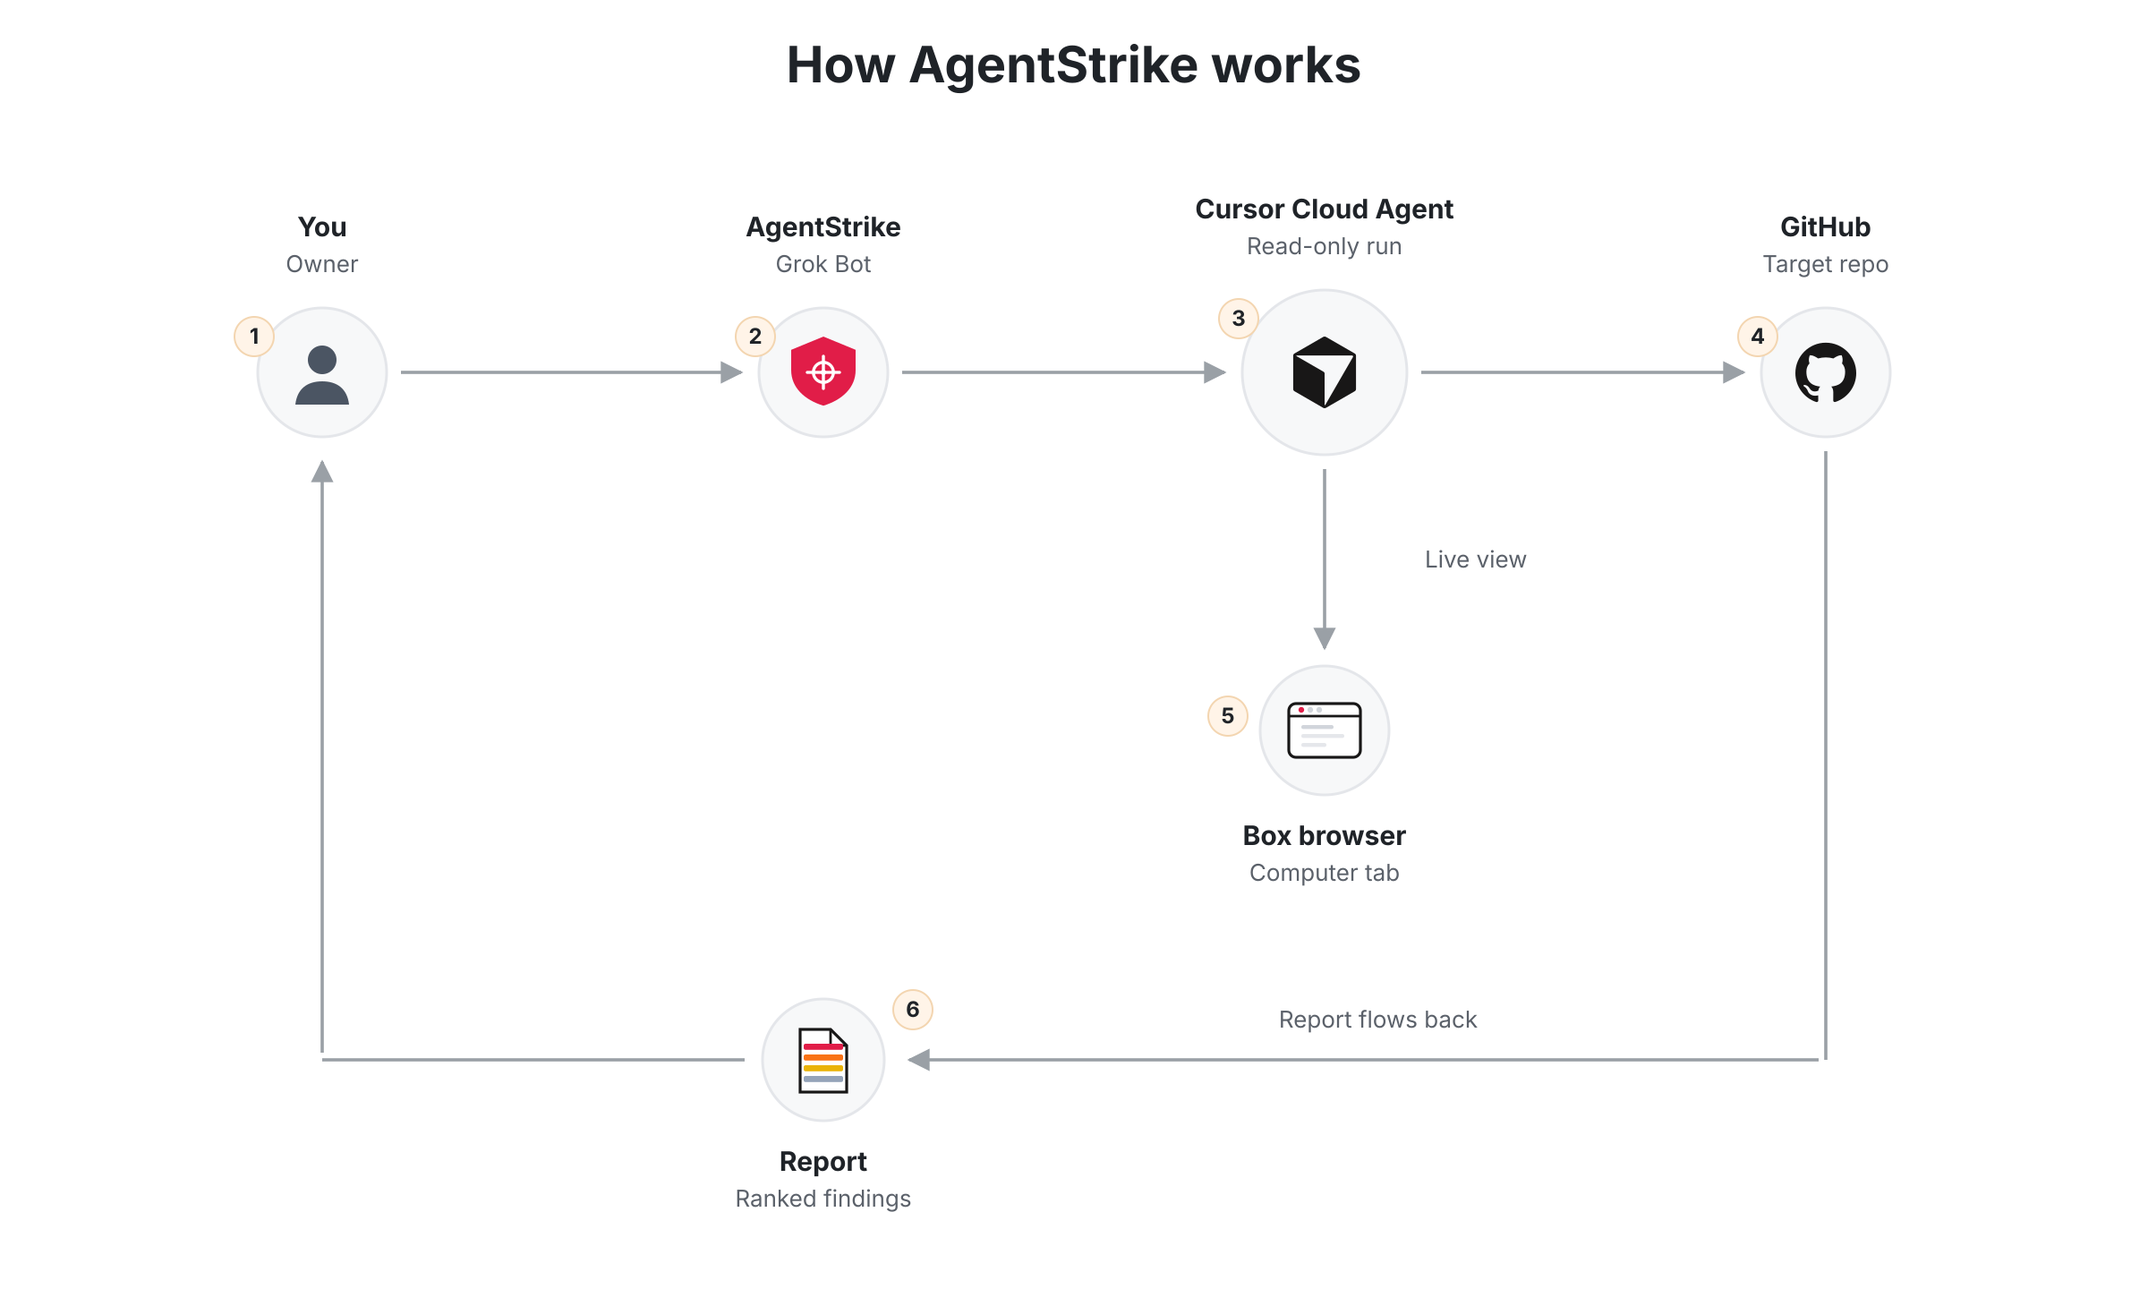
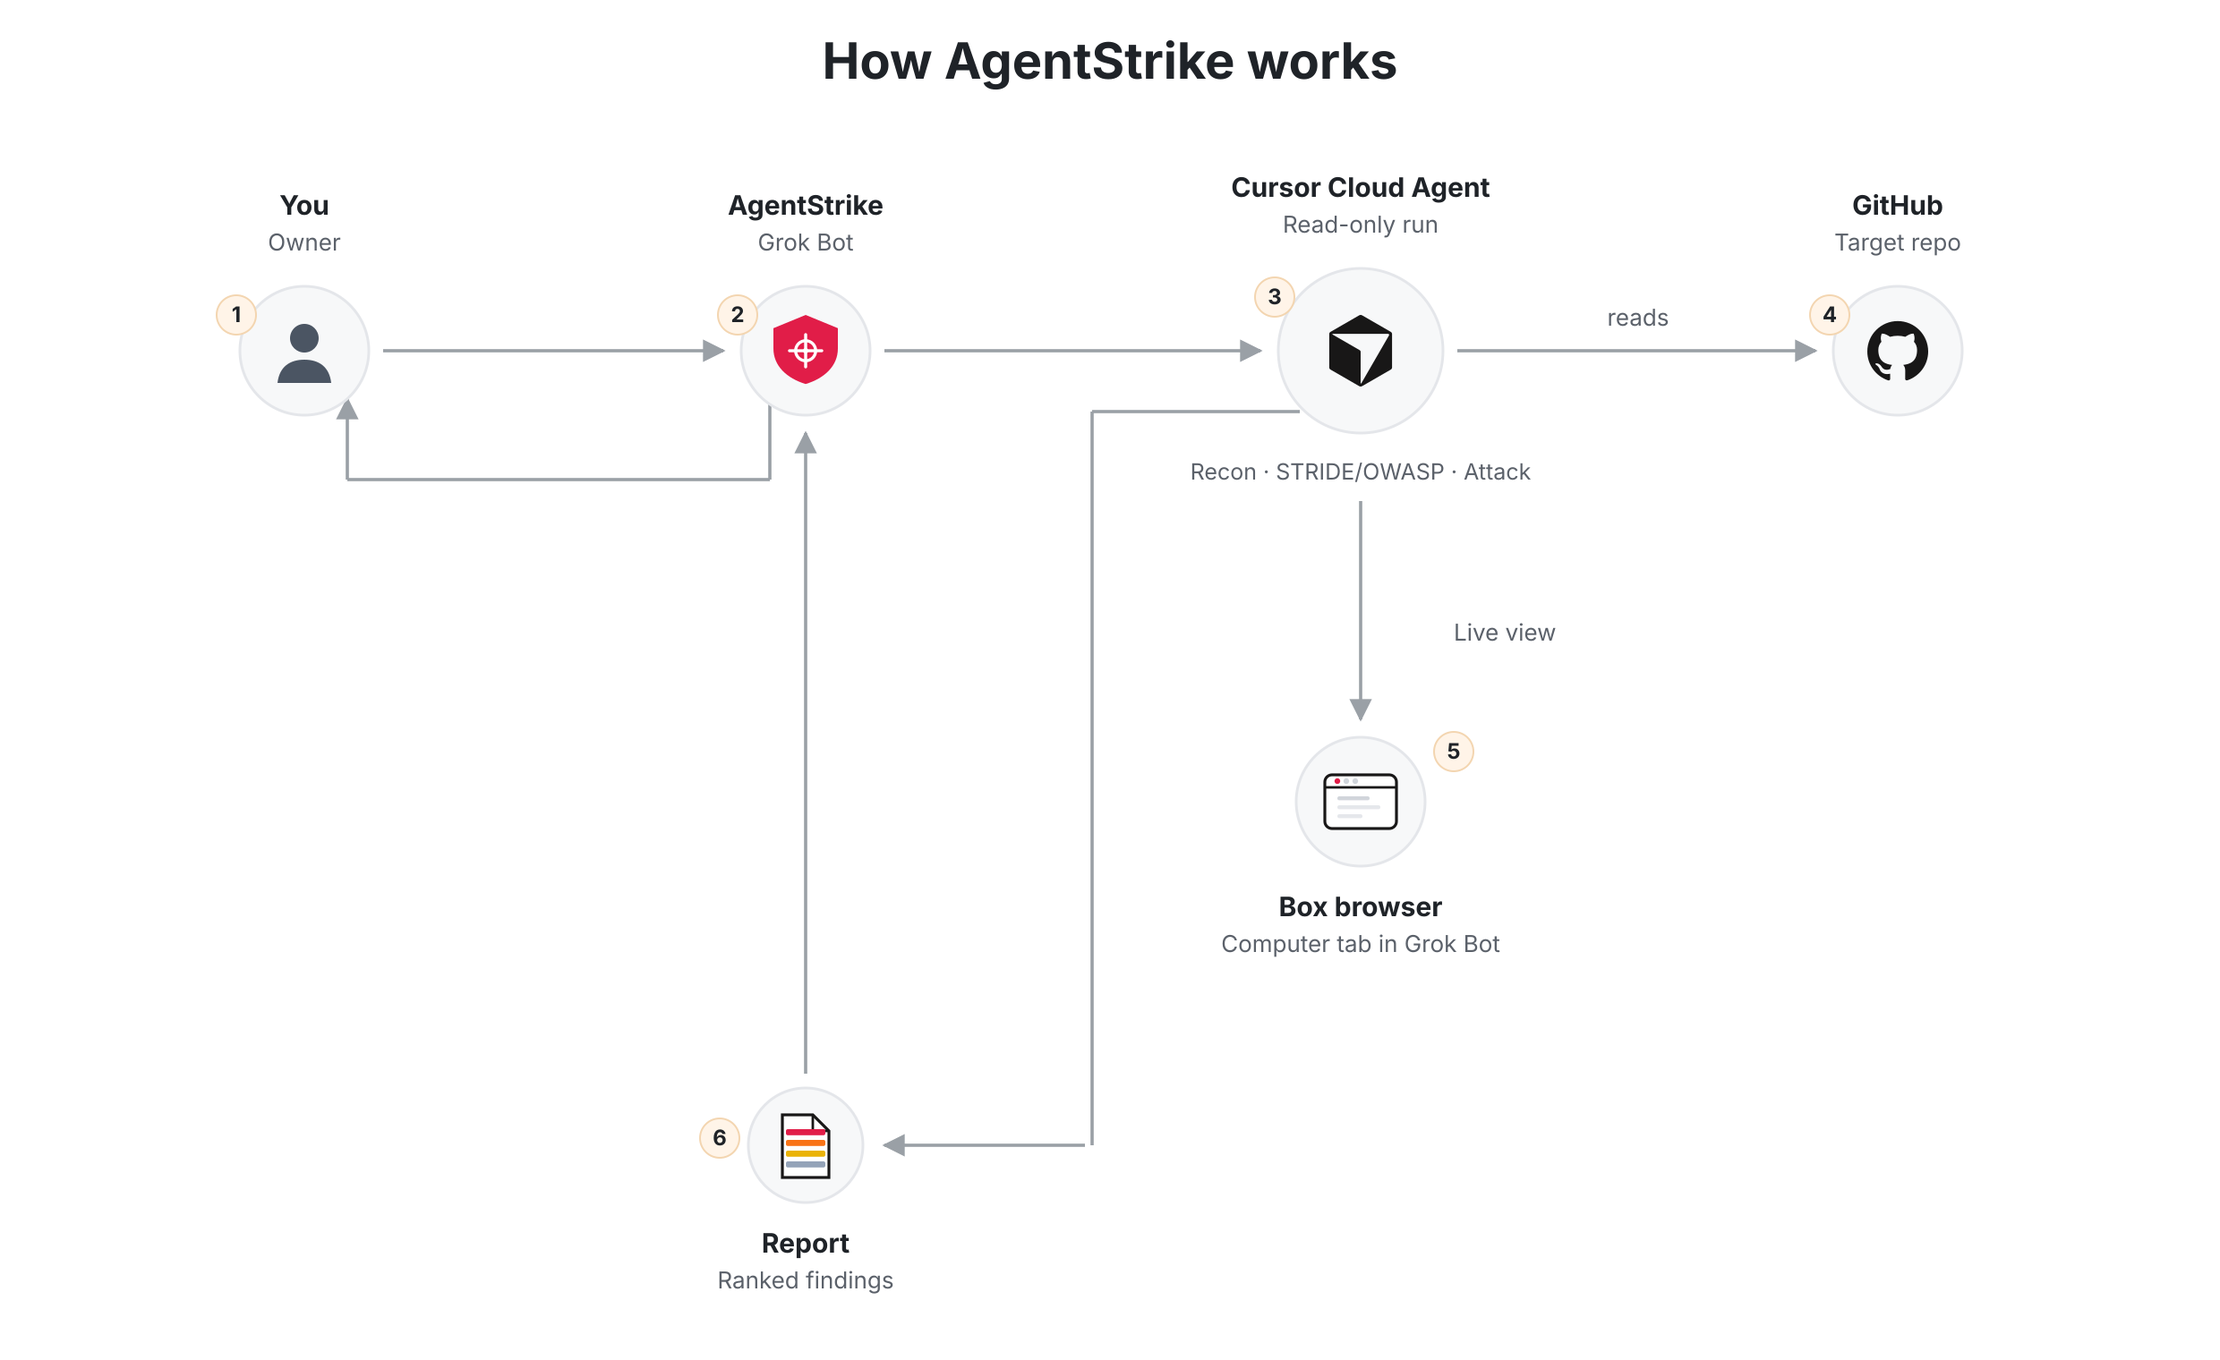
Fix the report path, Computer tab, and template sharing.
The cloud agent writes the report and AgentStrike delivers it. GitHub is a read-only target. The Computer tab is in the Grok Bot app, and bots are shared as a Bot template link.

diff --git a/scripts/build_architecture.py b/scripts/build_architecture.py
@@ -2,9 +2,9 @@
 """Build assets/architecture.svg and assets/architecture.png.
 
 Flow, left to right, with the Cursor cloud agent as the central step:
-You -> AgentStrike -> Cursor Cloud Agent -> GitHub target repo.
+You -> AgentStrike -> Cursor Cloud Agent --reads--> GitHub.
+The cloud agent writes the report, which goes to AgentStrike, then to you.
 A live-view branch drops from the cloud agent into the box browser.
-The report returns underneath, back to you.
 
 Rendered with rsvg-convert (librsvg), the same idea as the other Grok Bot
 repos: a real image in the README, not a Mermaid block.
@@ -19,7 +19,7 @@ ROOT = Path(__file__).resolve().parents[1]
 OUT_SVG = ROOT / "assets" / "architecture.svg"
 OUT_PNG = ROOT / "assets" / "architecture.png"
 
-W, H = 1200, 720
+W, H = 1240, 760
 RED = "#E11D48"
 LINE = "#9AA0A6"
 PANEL = "#F7F8F9"
@@ -48,10 +48,10 @@ CURSOR_PATH = (
     "0 0 0-.295-.51l-9.11-5.257c-.109-.063-.064-.23.061-.23"
 )
 
-YOU_X, BOT_X, CLOUD_X, GH_X = 180, 460, 740, 1020
-MAIN_Y = 208
-BROWSER_Y = 408
-RETURN_Y = 592
+YOU_X, BOT_X, CLOUD_X, GH_X = 170, 450, 760, 1060
+MAIN_Y = 196
+BROWSER_Y = 448
+REPORT_Y = 640
 
 
 def arrow_defs() -> str:
@@ -69,6 +69,7 @@ def style() -> str:
     .name {{ font-size: 15px; font-weight: 700; }}
     .cap {{ font-size: 13px; fill: {MUTED}; }}
     .note {{ font-size: 13px; fill: {MUTED}; }}
+    .phase {{ font-size: 12.5px; fill: {MUTED}; }}
   </style>'''
 
 
@@ -157,26 +158,36 @@ def report_icon(x: float, y: float) -> str:
 
 
 def build() -> str:
-    cloud_r, node_r, report_r = 46, 36, 34
+    cloud_r, node_r, report_r = 46, 36, 32
+    phase_y = MAIN_Y + cloud_r + 26
+    # Left of the cloud agent, clear of the phase line and of the browser column.
+    channel_x = 610
+    deliver_y = MAIN_Y + node_r + 36
     parts = [
         f'<svg xmlns="http://www.w3.org/2000/svg" width="{W}" height="{H}" viewBox="0 0 {W} {H}" role="img" aria-label="How AgentStrike works">',
         f'<rect width="{W}" height="{H}" fill="#FFFFFF"/>',
         arrow_defs(),
         style(),
-        f'<text class="title" x="{W / 2}" y="46" text-anchor="middle">How AgentStrike works</text>',
-        # Main flow. Arrow tips stop at the circle edges.
+        f'<text class="title" x="{W / 2}" y="44" text-anchor="middle">How AgentStrike works</text>',
+        # You -> AgentStrike -> Cursor Cloud Agent.
         line(YOU_X + node_r + 8, MAIN_Y, BOT_X - node_r - 10, MAIN_Y),
         line(BOT_X + node_r + 8, MAIN_Y, CLOUD_X - cloud_r - 10, MAIN_Y),
+        # One read-only arrow into GitHub.
         line(CLOUD_X + cloud_r + 8, MAIN_Y, GH_X - node_r - 10, MAIN_Y),
-        # Live view branches down from the cloud agent, clear of its label.
-        line(CLOUD_X, MAIN_Y + cloud_r + 8, CLOUD_X, BROWSER_Y - node_r - 10),
-        f'<text class="note" x="{CLOUD_X + 56}" y="{(MAIN_Y + cloud_r + BROWSER_Y - node_r) / 2 + 4}">Live view</text>',
-        # Report flows back underneath: down from GitHub, left into the report, then back up to you.
-        line(GH_X, MAIN_Y + node_r + 8, GH_X, RETURN_Y, head=False),
-        line(GH_X - 4, RETURN_Y, BOT_X + report_r + 14, RETURN_Y),
-        line(BOT_X - report_r - 10, RETURN_Y, YOU_X, RETURN_Y, head=False),
-        line(YOU_X, RETURN_Y - 4, YOU_X, MAIN_Y + node_r + 14),
-        f'<text class="note" x="{(GH_X + BOT_X) / 2 + 30}" y="{RETURN_Y - 18}" text-anchor="middle">Report flows back</text>',
+        f'<text class="note" x="{(CLOUD_X + cloud_r + GH_X - node_r) / 2}" y="{MAIN_Y - 14}" text-anchor="middle">reads</text>',
+        # Phase line sits under the cloud-agent circle. The live-view arrow starts below it.
+        f'<text class="phase" x="{CLOUD_X}" y="{phase_y}" text-anchor="middle">Recon · STRIDE/OWASP · Attack</text>',
+        line(CLOUD_X, phase_y + 12, CLOUD_X, BROWSER_Y - node_r - 10),
+        f'<text class="note" x="{CLOUD_X + 52}" y="{(phase_y + BROWSER_Y) / 2}">Live view</text>',
+        # Report: cloud agent -> report -> AgentStrike -> you. Not from GitHub.
+        line(CLOUD_X - 34, MAIN_Y + 34, channel_x, MAIN_Y + 34, head=False),
+        line(channel_x, MAIN_Y + 34, channel_x, REPORT_Y, head=False),
+        line(channel_x - 4, REPORT_Y, BOT_X + report_r + 12, REPORT_Y),
+        line(BOT_X, REPORT_Y - report_r - 8, BOT_X, MAIN_Y + node_r + 10),
+        # AgentStrike delivers the report to you, below the forward arrow.
+        line(BOT_X - 20, MAIN_Y + 30, BOT_X - 20, deliver_y, head=False),
+        line(BOT_X - 20, deliver_y, YOU_X + 24, deliver_y, head=False),
+        line(YOU_X + 24, deliver_y, YOU_X + 24, MAIN_Y + 27),
     ]
 
     nodes = [
@@ -194,13 +205,13 @@ def build() -> str:
 
     parts.append(disk(CLOUD_X, BROWSER_Y, node_r))
     parts.append(browser(CLOUD_X, BROWSER_Y))
-    parts.append(labels_below(CLOUD_X, BROWSER_Y, node_r, "Box browser", "Computer tab"))
-    parts.append(badge(CLOUD_X - node_r - 18, BROWSER_Y - 8, "5"))
+    parts.append(labels_below(CLOUD_X, BROWSER_Y, node_r, "Box browser", "Computer tab in Grok Bot"))
+    parts.append(badge(CLOUD_X + node_r + 16, BROWSER_Y - node_r + 8, "5"))
 
-    parts.append(disk(BOT_X, RETURN_Y, report_r))
-    parts.append(report_icon(BOT_X, RETURN_Y))
-    parts.append(labels_below(BOT_X, RETURN_Y, report_r, "Report", "Ranked findings"))
-    parts.append(badge(BOT_X + report_r + 16, RETURN_Y - report_r + 6, "6"))
+    parts.append(disk(BOT_X, REPORT_Y, report_r))
+    parts.append(report_icon(BOT_X, REPORT_Y))
+    parts.append(labels_below(BOT_X, REPORT_Y, report_r, "Report", "Ranked findings"))
+    parts.append(badge(BOT_X - report_r - 16, REPORT_Y - 4, "6"))
 
     parts.append("</svg>")
     return "\n".join(parts)

diff --git a/README.md b/README.md
@@ -6,9 +6,9 @@ AgentStrike is a Grok Bot (an AI assistant built on the Grok Bot app, by Cursor)
 
 It does not do general offensive security. A run never commits, opens a pull request, or opens an issue on the target. It never calls a live deployment or any other external host, never uses real cloud credentials, and never prints a secret value. When a check needs a concrete payload, that payload is tied to a code path and checked by reading the code or with a local harness that stays inside the workspace.
 
-The bot launches one Cursor cloud agent on the repository you pick, opens that run in its box browser so you can watch the commands on the Computer tab, and returns a severity-ranked markdown report. Findings use ids such as C1, H1, M1, and L1, with STRIDE and OWASP tags, `file:line` evidence, the payload in a code block, and a one-line fix. The report also lists controls that held and a fix order.
+The bot launches one Cursor cloud agent on the repository you pick. In the Grok Bot app, open AgentStrike's Computer tab. The box browser there shows the cloud agent run page with its live commands. The bot returns a severity-ranked markdown report. Findings use ids such as C1, H1, M1, and L1, with STRIDE and OWASP tags, `file:line` evidence, the payload in a code block, and a one-line fix. The report also lists controls that held and a fix order.
 
-This repository is the public template: the bot profile, four memories, two skills, the cloud-agent prompt, and an empty report skeleton. Import it, or recreate it by hand from the files below.
+This repository is the recipe for that bot: the profile, four memories, two skills, the cloud-agent prompt, and an empty report skeleton. [`template/agentstrike-template.json`](template/agentstrike-template.json) is the recipe reference. Open the AgentStrike Bot template link, or create the bot by hand from these files.
 
 ## Key features
 
@@ -17,7 +17,7 @@ This repository is the public template: the bot profile, four memories, two skil
 - **Read-only on the target.** No commits, pull requests, or issues. You merge your own fixes.
 - **Local only.** No live hosts, no real cloud credentials, and secret values are never printed. The report names the file and line.
 - **One target at a time.** The cloud agent gets the known leads, so it does not re-read the whole tree.
-- **Live view.** The run opens in the box browser. You watch commands on the Computer tab.
+- **Live view.** In the Grok Bot app, open AgentStrike's Computer tab. The box browser there shows the cloud agent run page with its live commands.
 - **One report shape.** Severity sections, tags, evidence, payloads, one-line fixes, controls that held, and a fix order.
 - **A public template.** Profile, memories, skills, and a getting-started skill. No routines and no plugins.
 
@@ -26,23 +26,21 @@ This repository is the public template: the bot profile, four memories, two skil
 <p align="center">
   <img src="assets/architecture.png" alt="How AgentStrike works" width="900">
 </p>
-<p align="center"><b>Figure 1. How AgentStrike works</b></p>
-
-You ask AgentStrike. The bot launches a Cursor cloud agent, which is the central step and uses the Cursor logo in the figure. That agent reads the GitHub repository. A live view branches off the cloud agent into the box browser. The report flows back to you.
+You ask AgentStrike. The bot launches a Cursor cloud agent, the central step, drawn with the Cursor logo. That agent reads the GitHub repository. It writes the report and sends it to AgentStrike, and AgentStrike delivers it to you. AgentStrike opens the run in the box browser.
 
 1. **You** tell AgentStrike which GitHub owner to look at, or you name one AI or agent app.
-2. **AgentStrike**, the Grok Bot, keeps the work inside the AI-only scope, saves your answers, and launches a single read-only run with the known leads.
-3. **Cursor Cloud Agent** is the central step. It receives the prompt in [`prompts/cloud-agent-redteam-prompt.md`](prompts/cloud-agent-redteam-prompt.md), stays read-only, and does recon, the threat model, and the checks.
-4. **GitHub** is the target repository. The agent reads it. It does not push, open a pull request, or open an issue.
-5. **Box browser** is the live-view branch. As soon as the run exists, the bot opens it so you can watch the Computer tab. The branch is only a window onto the same run.
-6. **Report** flows back. You get severity counts, tagged findings, evidence, payloads, fixes, controls that held, and a fix order. After you change the code, the same loop retests each id.
+2. **AgentStrike**, the Grok Bot, keeps the work inside the AI-only scope, saves your answers, and launches a single read-only run with the known leads. The report comes back here, and AgentStrike delivers it to you.
+3. **Cursor Cloud Agent** is the central step. It receives the prompt in [`prompts/cloud-agent-redteam-prompt.md`](prompts/cloud-agent-redteam-prompt.md), stays read-only, and does recon, the STRIDE and OWASP threat model, and the attack checks. It writes the report.
+4. **GitHub** is the read-only target. The only connection is the arrow labeled reads. The agent does not push, open a pull request, or open an issue.
+5. **Box browser** is the live-view branch off the cloud agent. AgentStrike opens the run there. In the Grok Bot app, open AgentStrike's Computer tab. The box browser there shows the cloud agent run page with its live commands.
+6. **Report** goes from the Cursor cloud agent to AgentStrike, then from AgentStrike to you. You get severity counts, tagged findings, evidence, payloads, fixes, controls that held, and a fix order. After you change the code, the same loop retests each id.
 
 ## Tech stack
 
 - **Grok Bot app.** The bot profile, memories, skills, the getting-started skill, and the box browser.
 - **Cursor cloud agents.** One read-only run per target. The prompt they receive is in this repo.
 - **GitHub.** The inventory of your repositories, and the source the cloud agent reads.
-- **Box desktop browser.** The live run, with commands on the Computer tab.
+- **Box desktop browser.** In the Grok Bot app, AgentStrike's Computer tab shows this browser. The page in it is the cloud agent run, with its live commands.
 - **STRIDE.** Spoofing, tampering, repudiation, information disclosure, denial of service, elevation of privilege.
 - **OWASP Top 10 for LLM Applications 2025.** LLM01 Prompt Injection, LLM02 Sensitive Information Disclosure, LLM03 Supply Chain, LLM04 Data and Model Poisoning, LLM05 Improper Output Handling, LLM06 Excessive Agency, LLM07 System Prompt Leakage, LLM08 Vector and Embedding Weaknesses, LLM09 Misinformation, LLM10 Unbounded Consumption.
 - **OWASP Agentic threats used here.** Tool misuse, privilege compromise, memory poisoning, and excessive agency.
@@ -61,11 +59,11 @@ cd AgentStrike
 
 ### 2. Create the bot from the template
 
-The recipe is [`template/agentstrike-template.json`](template/agentstrike-template.json). It sets the profile name and description, the four memories, both skills, and `gettingStarted` to `agentstrike-getting-started`. Routines and plugins are empty.
+Grok Bot shares bots as a Bot template link, not as a JSON file import. [`template/agentstrike-template.json`](template/agentstrike-template.json) is the recipe reference. It records the profile name and description, the four memories, both skills, and `gettingStarted` set to `agentstrike-getting-started`. Routines and plugins are empty.
 
-If your Grok Bot app offers a template import, import that file.
+Open the AgentStrike Bot template link if you have one. The bot's getting-started skill runs on the first chat.
 
-If it does not, create a bot by hand and match the file:
+Otherwise, create a new bot by hand and add the memories and skills from this repo:
 
 1. Name the bot **AgentStrike**.
 2. Paste the profile description from the JSON.
@@ -98,7 +96,7 @@ Cursor cloud agents have to be available on the same account. You do not start o
 
 ## Usage guide
 
-The interaction is the chat, plus two places you look: the GitHub connection card, and the Computer tab of the live run. The steps below are the whole loop, from the first question to sharing the template.
+The interaction is the chat, plus two places you look: the GitHub connection card, and AgentStrike's Computer tab in the Grok Bot app. The steps below are the whole loop, from the first question to sharing the template.
 
 ### 1. First conversation
 
@@ -162,12 +160,11 @@ Phases on that run:
 
 ### 6. Watch the Computer tab
 
-When the run starts, the bot opens it in the box browser. That is the live-view branch in the figure.
+When the run starts, AgentStrike opens it in the box browser. That is the live-view branch in the figure.
 
-1. Bring the box browser forward. The page is the cloud agent run the bot just opened.
-2. Open the **Computer** tab on that run.
-3. Watch the commands as they run. You should see reads of the target repo, not pushes, and not requests to a deployed URL.
-4. If a command is heading at a live host, an external service, or a write to the repo, stop the run in that cloud-agent page and tell the bot: `Stop. That run tried to leave the repo. Start it again read-only.`
+1. In the Grok Bot app, open AgentStrike's Computer tab. The box browser there shows the cloud agent run page with its live commands.
+2. Watch the commands as they run. You should see reads of the target repo, not pushes, and not requests to a deployed URL.
+3. If a command is heading at a live host, an external service, or a write to the repo, stop the run on that page and tell the bot: `Stop. That run tried to leave the repo. Start it again read-only.`
 
 You can say `No live view` on a later run if you do not want the browser opened. The assessment still returns the report.
 
@@ -206,10 +203,10 @@ The off-limits list still applies. Live view still follows the preference you sa
 
 ### 10. Share the template
 
-The public copy of AgentStrike is this repository. To hand it to someone else, send:
+In AgentStrike's chat, ask:
 
-`https://github.com/ritvikindupuri/AgentStrike`
+`give me your bot template`
 
-They clone it and follow the setup above. The file they import, if their app accepts a template file, is `template/agentstrike-template.json`.
+It packs a shareable Bot template, which you confirm and publish.
 
-If your Grok Bot app shows a share or export action for a bot, you can use that too. The repository stays the copy that includes the prompt, the report skeleton, and the skills as separate files. Do not put real findings, secret values, or personal data into the template when you share it.
+[`template/agentstrike-template.json`](template/agentstrike-template.json) is the recipe reference for what that template contains. Do not put real findings, secret values, or personal data into the template when you share it.
